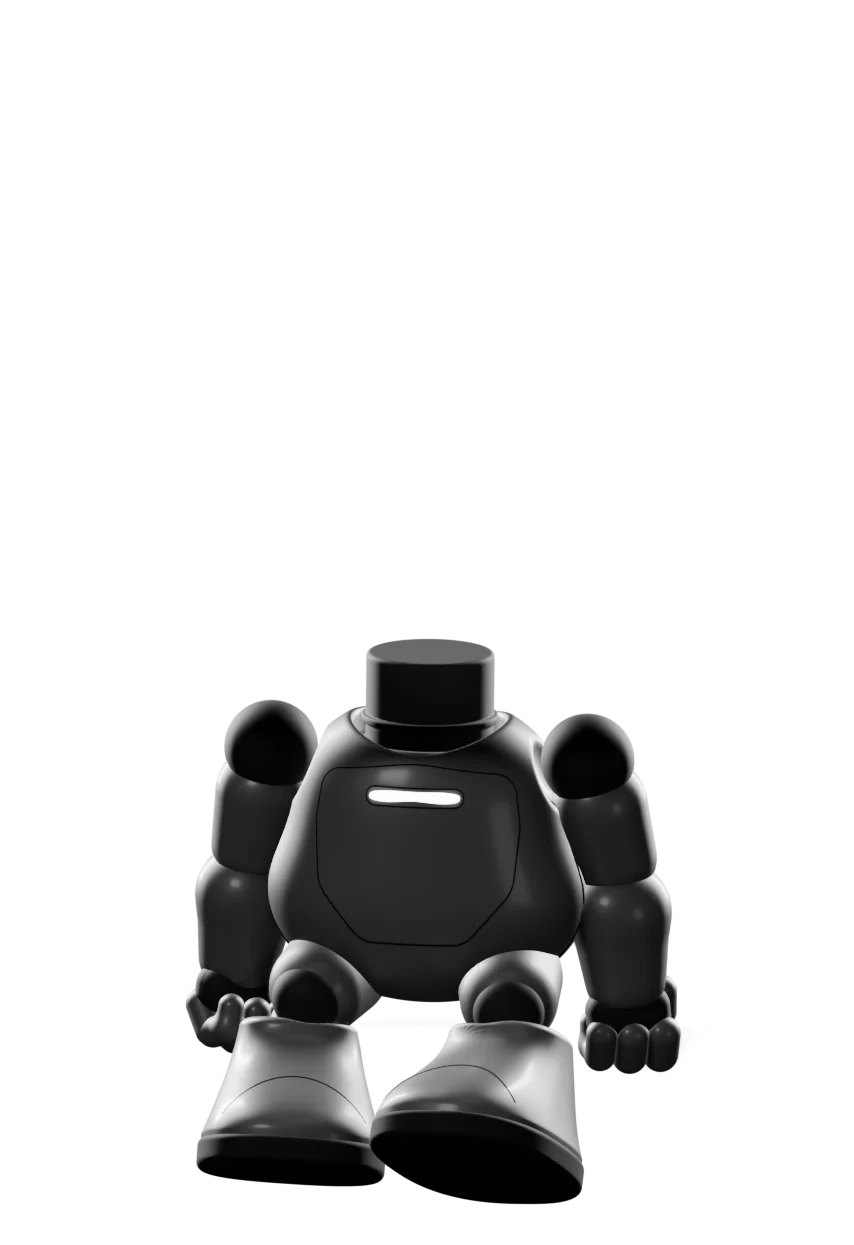
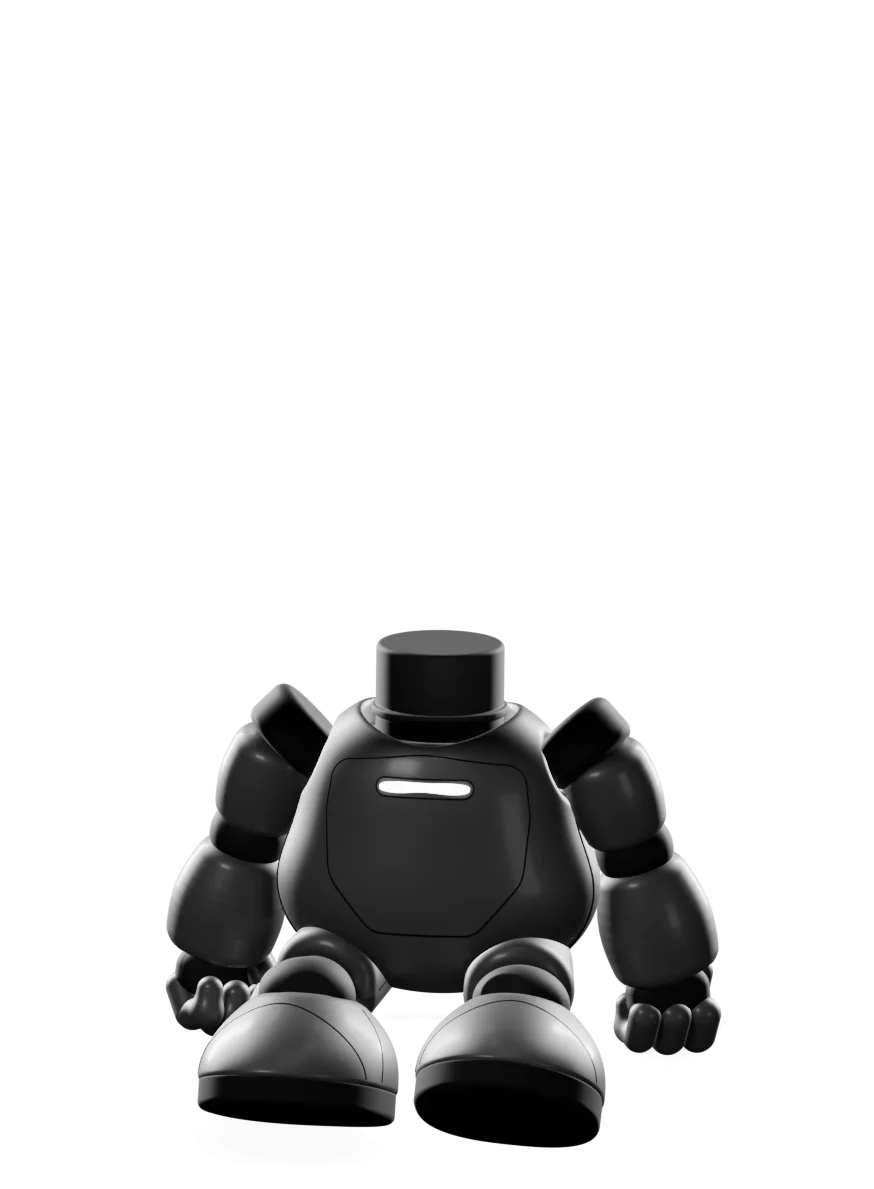
Give Milo the concept's soft face, with the visor nearly flat and the face curving in one sweep from its edge out to the cheeks and crown in a plate that is part of the head with fine grooved seams, and bring back his dark elbow joints between rounded arm shells, with short legs in the concept's bel
The renders are now 874 x 1189, so the figure numbers, the stylesheets that repeat them and the image sizes hints move with them.

Changed region(s): [[0.1827, 0.4979, 0.822, 0.9647]]

diff --git a/src/components/site/Milo.module.css b/src/components/site/Milo.module.css
@@ -1,9 +1,9 @@
 /* Milo and the course line he sits on. The figure is two Blender renders; only his eyes, the line and its ticks are drawn
    here, all in the site's neutrals, with the labs' orange kept for the one tick that's next. */
 
-.figure { position: relative; aspect-ratio: 854 / 1245; pointer-events: none; -webkit-user-select: none; user-select: none; }
+.figure { position: relative; aspect-ratio: 874 / 1189; pointer-events: none; -webkit-user-select: none; user-select: none; }
 .layer { position: absolute; inset: 0; display: block; width: 100%; height: 100%; }
-.head { position: absolute; inset: 0; transform: translate(var(--hx, 0%), var(--hy, 0%)) rotate(var(--tilt, 0deg)); transform-origin: 50.383% 54.336%; }
+.head { position: absolute; inset: 0; transform: translate(var(--hx, 0%), var(--hy, 0%)) rotate(var(--tilt, 0deg)); transform-origin: 50.374% 56.138%; }
 .breath { position: absolute; inset: 0; }
 .eyes { position: absolute; inset: 0; width: 100%; height: 100%; overflow: visible; }
 .gaze { transform: translate(var(--gx, 0px), var(--gy, 0px)); }

diff --git a/src/components/site/MiloHome.tsx b/src/components/site/MiloHome.tsx
@@ -27,8 +27,8 @@ const lessons = (count: number) => `${count} ${count === 1 ? "lesson" : "lessons
 // How much of the figure's width his body takes up at the line, which is what has to stay on the stage.
 // His head is the widest part of him, and it all has to stay on the stage and clear of the words.
 const HEAD_SHARE = 0.42;
-// His width on screen: his height times 854/1245, from the stage's --milo-h on each layout.
-const FIGURE_SIZES = "(min-width: 960px) and (min-height: 600px) min(38vh, 27vw), (max-height: 599px) and (min-width: 640px) min(54vh, 27vw), min(25vh, 60vw, 261px)";
+// His width on screen: his height times 874/1189, from the stage's --milo-h on each layout.
+const FIGURE_SIZES = "(min-width: 960px) and (min-height: 600px) min(41vh, 29vw), (max-height: 599px) and (min-width: 640px) min(57vh, 29vw), min(26vh, 65vw, 279px)";
 
 // When the course line can't run, or without JavaScript, everything below the words lies flat and the chapter list shows.
 const FLAT_PAGE = "[data-home-scene],[data-home-goal],[data-home-bubble]{display:none!important}"

diff --git a/src/lib/milo-figure.ts b/src/lib/milo-figure.ts
@@ -3,19 +3,19 @@
 // docs/design-system.md for how they are made.
 
 export const MILO = {
-  width: 854,
-  height: 1245,
+  width: 874,
+  height: 1189,
   /** Width of the smaller layers, for phones. */
-  small: 461,
+  small: 472,
   /** The middle of the seat, on the front edge of the ledge he sits on. */
-  seat: [0.5, 0.82485],
+  seat: [0.5, 0.8569],
   /** His eyes, left then right on the image, as ellipses on his face's screen. */
   eyes: [
-    { x: 0.37639, y: 0.42897, rx: 0.03769, ry: 0.04223 },
-    { x: 0.63126, y: 0.42897, rx: 0.03769, ry: 0.04223 },
+    { x: 0.37922, y: 0.44172, rx: 0.03683, ry: 0.04423 },
+    { x: 0.62826, y: 0.44172, rx: 0.03683, ry: 0.04423 },
   ],
   /** The screen his eyes are drawn on. */
-  display: { x: 0.50383, y: 0.43373, rx: 0.30067, ry: 0.09431 },
+  display: { x: 0.50374, y: 0.4454, rx: 0.2938, ry: 0.10053 },
   /** Where the head turns on the neck. */
-  neck: [0.50383, 0.54336],
+  neck: [0.50374, 0.56138],
 } as const;

diff --git a/src/components/site/MiloHome.module.css b/src/components/site/MiloHome.module.css
@@ -34,7 +34,7 @@
 .stage {
   --edge: 16px;
   --milo-h: min(36svh, 88vw, 380px);
-  --milo-w: calc(var(--milo-h) * 854 / 1245);
+  --milo-w: calc(var(--milo-h) * 874 / 1189);
   --legs: calc(var(--milo-h) * .16);
   --line-l: var(--edge);
   position: relative;
@@ -52,7 +52,7 @@
 /* Milo, his line, and what he says. --seat-x is where he sits, from the stage's left edge; until the page knows the
    visitor's next lesson, he sits at the first. */
 .scene {
-  --line-y: calc(var(--milo-h) * .82485 + 4px);
+  --line-y: calc(var(--milo-h) * .8569 + 4px);
   position: relative;
   flex: none;
   height: calc(var(--line-y) + var(--legs) + 86px);
@@ -63,7 +63,7 @@
 .parts { top: calc(var(--line-y) + var(--legs) + 10px); left: var(--line-l); right: var(--edge); }
 .seat {
   position: absolute;
-  top: calc(var(--line-y) - var(--milo-h) * .82485);
+  top: calc(var(--line-y) - var(--milo-h) * .8569);
   left: 0;
   z-index: 2;
   width: var(--milo-w);

diff --git a/src/components/site/CourseNav.module.css b/src/components/site/CourseNav.module.css
@@ -3,9 +3,9 @@
 
 .scene {
   --milo-h: clamp(230px, 30vw, 330px);
-  --milo-w: calc(var(--milo-h) * 854 / 1245);
+  --milo-w: calc(var(--milo-h) * 874 / 1189);
   --legs: calc(var(--milo-h) * .16);
-  --line-y: calc(var(--milo-h) * .82485 + 8px);
+  --line-y: calc(var(--milo-h) * .8569 + 8px);
   position: relative;
   min-width: 0;
   height: calc(var(--line-y) + var(--legs) + 78px);
@@ -15,7 +15,7 @@
 .partsBox { top: calc(var(--line-y) + var(--legs) + 10px); right: 0; left: 0; }
 .seat {
   position: absolute;
-  top: calc(var(--line-y) - var(--milo-h) * .82485);
+  top: calc(var(--line-y) - var(--milo-h) * .8569);
   left: 0;
   z-index: 2;
   width: var(--milo-w);

diff --git a/src/components/site/CourseMap.tsx b/src/components/site/CourseMap.tsx
@@ -163,7 +163,7 @@ function CourseLine(props: CourseNavProps) {
           partsClassName={navStyles.partsBox}
         />
         <div className={navStyles.seat}>
-          <MiloFigure figureRef={figure} className={navStyles.figure} sizes="clamp(158px, 21vw, 226px)" />
+          <MiloFigure figureRef={figure} className={navStyles.figure} sizes="clamp(169px, 22vw, 243px)" />
         </div>
       </div>
 

diff --git a/docs/design-system.md b/docs/design-system.md
@@ -55,12 +55,12 @@ Charts use blue for successful work and orange for offered load, with validated 
 
 Milo is the site's character: a small robot with a screen for a face, sitting on the course line. He's original to SystemKit, designed from concept art and built in Blender, and he stays in the site's neutrals: white satin in the light theme, charcoal in the dark, with only his eyes and the little lights on his chin and chest glowing. The page shows him as two Cycles renders, his body (with the ledge's contact shadow folded in) and his head, each a WebP of a few tens of kilobytes in each theme, chosen by `prefers-color-scheme`. His face's screen is left blank in the renders and his eyes are drawn on it by the page, so they can blink, look at the pointer or at whatever the page is pointing at, squint happily when the main action is pointed at, and open for the dive. His head leans a little after his eyes and he breathes; all of it is a transform or a CSS variable, it stops when he's off screen or nothing has happened for 45 seconds, and none of it runs for anyone who prefers reduced motion. Where he sits on the line is a transform too, so moving him never shifts the layout.
 
-His shape follows the concept art. His head is tall and round, its cheeks curving round his screen, and its crown grows two thick horn-like ears. Each ear curls out at the tip, with a dark crescent along its inner edge. The screen sits flush in a face plate that is part of the head, bounded by a thin seam, with a separate chin plate below holding the chin light. Short seams split the forehead under a crown line that runs along the ears' bases. His body is a bell-shaped torso with a flush shield on the chest. It has a dark neck in a collar well, dark ball shoulders the arms hang from, tapered arms, fists of white finger segments over a dark palm, and dark knees seated in flared boots on dark soles. In the light theme he renders white under broad soft light. In the dark theme he is charcoal, with thin rim light tracing his outline. The visor is dark gloss glass, and the chin and chest lights glow.
+His shape follows the concept art. His head is tall and round, its cheeks curving round his screen, and its crown grows two thick horn-like ears. Each ear curls out at the tip, with a dark crescent along its inner edge. The face is nearly flat across the screen and curves in one smooth sweep out to the cheeks and the crown. Its screen sits in a soft face plate that is part of the head, bounded by a fine grooved seam, with a grooved chin plate below holding the chin light. Short seams split the forehead under a crown line that runs along the ears' bases. His body is a bell-shaped torso with a flush shield on the chest. It has a dark neck in a collar well, dark shoulder joints set into its sides, and rounded arm shells with a dark elbow joint showing between them. His fists are white finger segments over a dark palm, and his short legs have dark knees seated in bell-shaped boots on dark soles. In the light theme he renders white under broad soft light. In the dark theme he is charcoal, with thin rim light tracing his outline. The visor is dark gloss glass, and the chin and chest lights glow.
 
 The sources are in the Milo project (`systemkit-milo`). `Milo-sitting-v2-light.blend` and `Milo-sitting-v2-dark.blend` hold the pose, the ledge as a shadow catcher, and the studio light. The `sitting` folder has the scripts that rebuild them, in order:
 1. `head.py`, `body.py` and `hand.py` build the head, the body and the left fist as signed-distance shapes, meshed with marching cubes (they need numpy and scikit-image). Their numbers are in `head.json`, `body.json` and `hand.json`; `hand.py` also reads the hand bone's frame from `rig.json`, which `rig.py` writes.
 2. `final.sh` puts those meshes on the rig (`shape.py`; `hands.py` mirrors the fist onto the right hand), poses him, applies the studio look from `look-light.json` / `look-dark.json`, and renders both themes' layers.
-3. `KEEP_W=854 python3 assets.py <out> <repo>` crops the layers into `public/milo` and prints the figure geometry. `KEEP_W` keeps the width the page was laid out for. Copy the printed numbers into `src/lib/milo-figure.ts` by hand.
+3. `KEEP_W=854 python3 assets.py <out> <repo>` crops the layers into `public/milo` and prints the figure geometry. `KEEP_W` keeps the layers at least as wide as the page was first laid out for. Copy the printed numbers into `src/lib/milo-figure.ts` by hand.
 
 The geometry the page needs from those renders, where his eyes, screen, neck and seat land on the images, is in `src/lib/milo-figure.ts`. Regenerate it with the renders whenever the pose, the camera or his outline changes. The images' aspect ratio, seat and neck are also written into `Milo.module.css`, `MiloHome.module.css` and `CourseNav.module.css`. The images' `sizes` hints in `MiloHome.tsx` and `CourseMap.tsx` are his height on each layout times that aspect ratio. Tests check all of these agree with `milo-figure.ts`.
 
